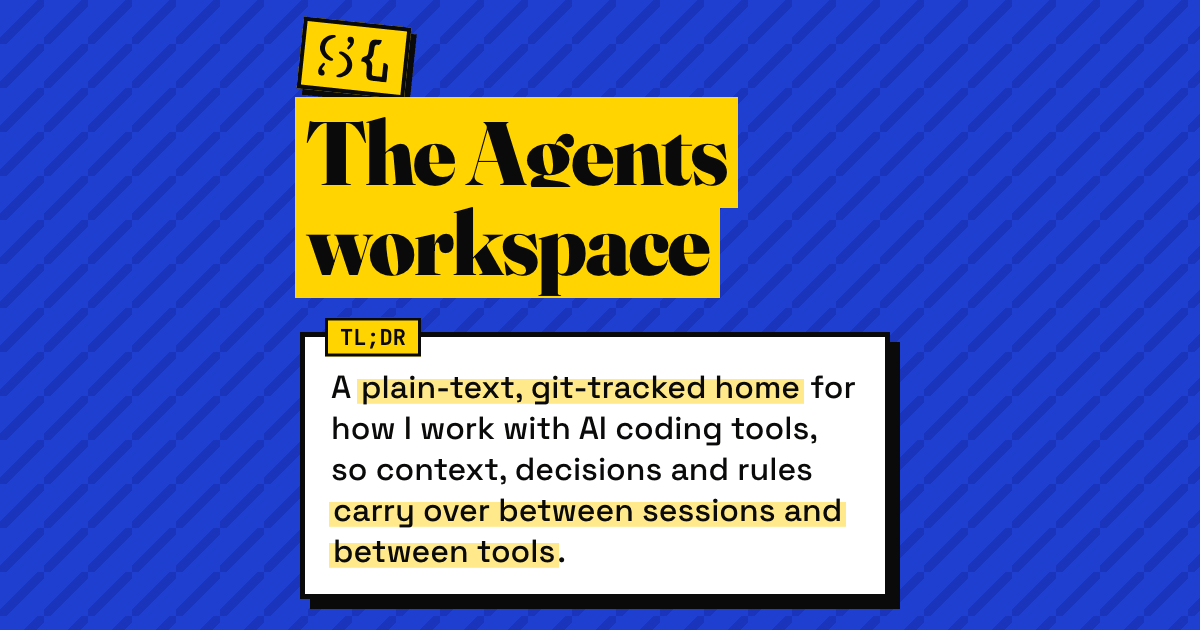
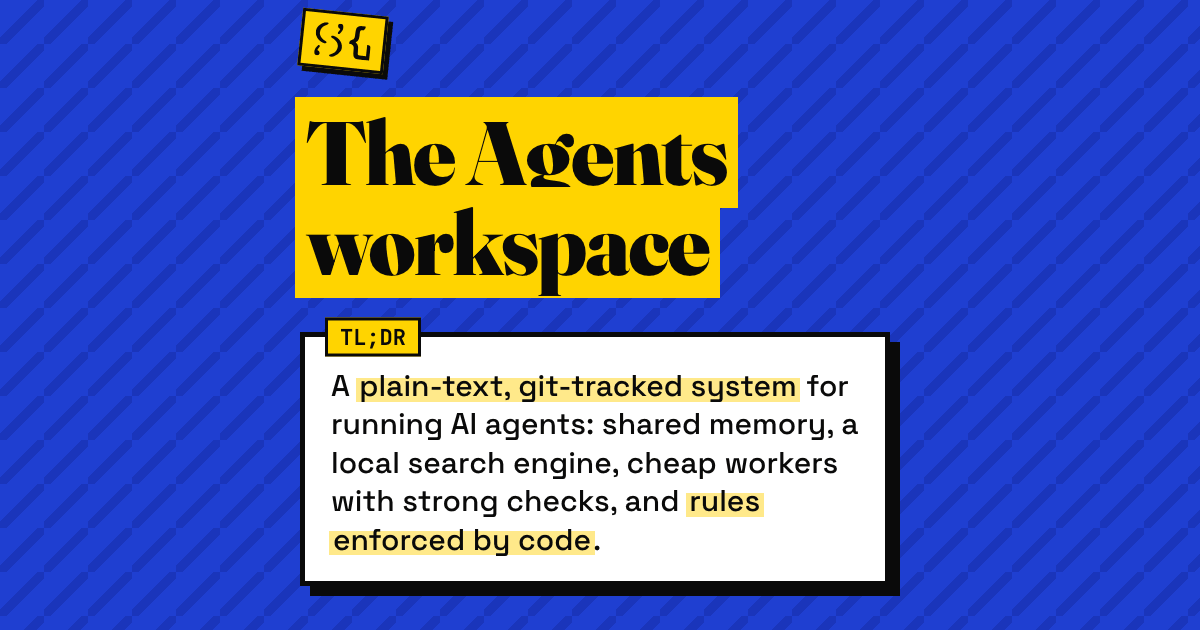
Rewrite the Agents workspace project page for the rebuild
The page still described the pre-rebuild workspace (adapters, six tools,
1,400 commits) and used an AI-drawn cover. It now matches the rewritten
post: specs in git, local search, the work loop, model routing, checks
as code, observability and evals, with current numbers (825 commits since
19 Oct, 62% hit@5). The cover is the drawn system map, and the page links
to the full tour. Checks: npm run build (0 errors), npm run test:e2e (75 passed).

Changed region(s): [[0.2467, 0.573, 0.7708, 0.9651], [0.2467, 0.0, 0.37, 0.181]]

diff --git a/src/content/projects/agents-workspace.md b/src/content/projects/agents-workspace.md
@@ -1,12 +1,12 @@
 ---
-cover: "../../assets/covers/agents-workspace.jpg"
-coverAlt: "Illustration: a conductor directing four robot helpers"
-coverKind: "illustration"
+cover: "../../assets/posts/agents-workspace/cover-system-map.png"
+coverAlt: "A diagram of the system: me, then a root AI session in any tool, then one folder of rules, skills, roles, models and specs, with search, checks, reports and traces underneath."
+coverKind: "screenshot"
 title: "The Agents workspace"
-summary: "A ==plain-text, git-tracked home== for how I work with AI coding tools, so context, decisions and rules ==carry over between sessions and between tools==."
+summary: "A ==plain-text, git-tracked system== for running AI agents: shared memory, a local search engine, cheap workers with strong checks, and ==rules enforced by code==."
 period: "2026 to now"
 role: "Creator and sole maintainer"
-skills: ["Git", "Markdown", "Shell scripting", "Model Context Protocol", "AI agents"]
+skills: ["AI agents", "Agent orchestration", "LLM evals", "Observability", "Python", "Git"]
 links: []
 order: 30
 confidential: false
@@ -15,39 +15,41 @@ draft: false
 
 ## The problem
 
-I use several AI coding tools every day, including Claude Code, Codex, Cursor, Gemini CLI, OpenCode and Hermes. Each keeps its own instructions, memory and settings. Three problems kept showing up:
+I run most of my work through AI agents in Claude Code, Codex, OpenCode and Gemini. Three problems kept showing up:
 
-- **Lost context.** Code and docs do not capture why a decision was made. Every new AI session starts from zero, so long tasks get rebuilt instead of resumed.
-- **Tool lock-in.** Rules stored inside one vendor's product are lost when the product changes or a better one appears.
-- **Drift.** Instructions copied by hand across tools quietly fall out of sync.
+- **Lost context.** Every new session starts from zero, so long tasks get rebuilt instead of resumed.
+- **Tool lock-in.** Rules stored inside one vendor's tool are lost when I switch tools.
+- **Unchecked work.** Agents report success with full confidence, right or wrong.
 
 ## My role
 
-I created the workspace and I am its only maintainer. The repository is private, so this is a write-up of the design.
+I designed and built the system and I am its only maintainer. On 19 October 2026 I rebuilt it from scratch. The repositories are private, so this is a write-up of the design. The [full tour](/writing/agents-workspace-tour/) has diagrams of every part.
 
 ## Key decisions
 
-**One source of truth.** The guiding rule is that tools adapt to the workspace, never the other way round. Each tool gets a thin adapter. Any difference between a tool and the workspace is recorded and either fixed or approved on purpose.
+**One rulebook for every tool.** Every session loads one short `AGENTS.md`, linked into each tool's own instruction file. Rules, skills and roles load only when the task needs them, so context stays small.
 
-**Organize by purpose.** Reusable procedures (skills), specialist behaviors (roles), tool bridges, per-tool mappings and larger workflows each have a home. A short always-on file and an index load more detail only when needed, which keeps each session's context small.
+**Memory as specs in git.** Each topic has one spec that says what is true now, with its decisions, research and task folders beside it. Each fact has one home, and git records why every change was made.
 
-**Plan, execute, reconcile in fresh phases.** For serious work, each phase talks to the next only through files on disk. Any phase can restart in a new session without relying on chat history.
+**A search engine built for agents.** A local index combines full-text search with a local embedding model. Each result gives the exact lines and a file hash, so agents can cite sources and notice when a file has changed.
 
-**Durable memory with owners.** State, decisions, specs and a code map each have clear update rules. The git log is the changelog, and each commit message says why a change was made.
+**One work loop.** Plan, write a packet, send it to a worker, check the result against evidence, then accept it and update the spec. Workers report. Only the root accepts.
 
-**Rules for AI workers.** Tasks go out in bounded packets. Workers cannot start other workers. The top-level agent keeps architecture and final checks.
+**Strong models for judgment, cheap ones for checkable work.** One file picks the model and effort for every role in every tool. Workers never start workers.
 
-**Safety boundaries.** One tool's configuration changes per session, routine permissions are defined up front, and sensitive material lives in a separate private repository.
+**Rules enforced by code.** Hooks guard private data, block nested workers, stop overspending and validate every changed file when a session ends. No model decides whether a rule applies.
+
+**Measured, not guessed.** Traces, cost reports and context reports show what agents did. Evals follow one recipe: set the default first, score with code where possible, and report the gap with a range.
 
 ## Outcome
 
-Since June 2026 the workspace has grown <span class="lv-mark">past 1,400 commits</span>, with <span class="lv-mark">adapters for six AI tools</span>. Work now carries over between sessions and between tools. Switching to or adding a tool means writing an adapter, not starting over.
+Since the rebuild the system and its specs have grown <span class="lv-mark">past 800 commits</span>. The migration moved every spec with <span class="lv-mark">zero files lost</span>. The search tool finds the right file in the top five for 62% of benchmark questions, against about 49% for word or meaning search alone.
 
-<span class="lv-mark">This website was built with it</span>. Research, planning and decisions for the site are recorded in the same workspace.
+<span class="lv-mark">This website was built with it</span>, and so was the rebuild itself.
 
 ## What I learned
 
-- The reasons behind a decision are worth more than the code that came from it, and they are the first thing lost.
+- Agents read rules. They obey checks. The rules that must always hold belong in code.
+- A worker's word is not evidence. Every result needs a command output or the lines it read.
 - Short always-on rules plus on-demand detail work better than one giant instruction file.
-- Giving AI workers a narrow, written task gets far better results than a vague one.
 - Plain text in git outlasts any single tool.
